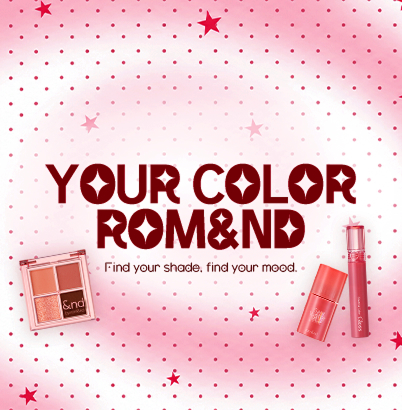
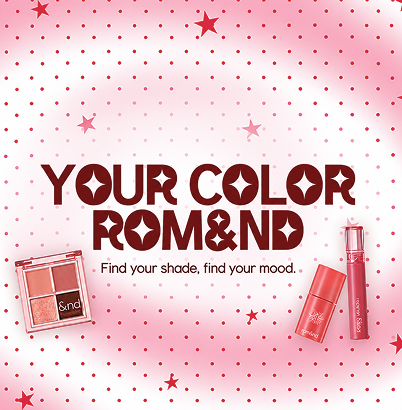
모바일용 배너 고화질 이미지 교체 및 상품카드리스트 화면 배너 이미지 교체

diff --git a/index-2.html b/index-2.html
@@ -458,13 +458,13 @@
     <!-- 상품 카드 리스트 화면 배너 -->
     <div class="banner">
         <figure class="pc">
-            <img src="./img/banner4-pc.jpg" alt="롬앤 상품카드리스트 화면 상단 배너">
+            <img src="./img/final-design/product-list-banner-pc.jpg" alt="롬앤 상품카드리스트 화면 상단 배너">
         </figure>
         <figure class="pad">
-            <img src="./img/banner4-pad.jpg" alt="롬앤 상품카드리스트 화면 상단 배너">
+            <img src="./img/final-design/product-list-banner-pad.jpg" alt="롬앤 상품카드리스트 화면 상단 배너">
         </figure>
         <figure class="mo">
-            <img src="./img/banner4-mobile.jpg" alt="롬앤 상품카드리스트 화면 상단 배너">
+            <img src="./img/final-design/product-list-banner-mo.jpg" alt="롬앤 상품카드리스트 화면 상단 배너">
         </figure>
     </div>
 
